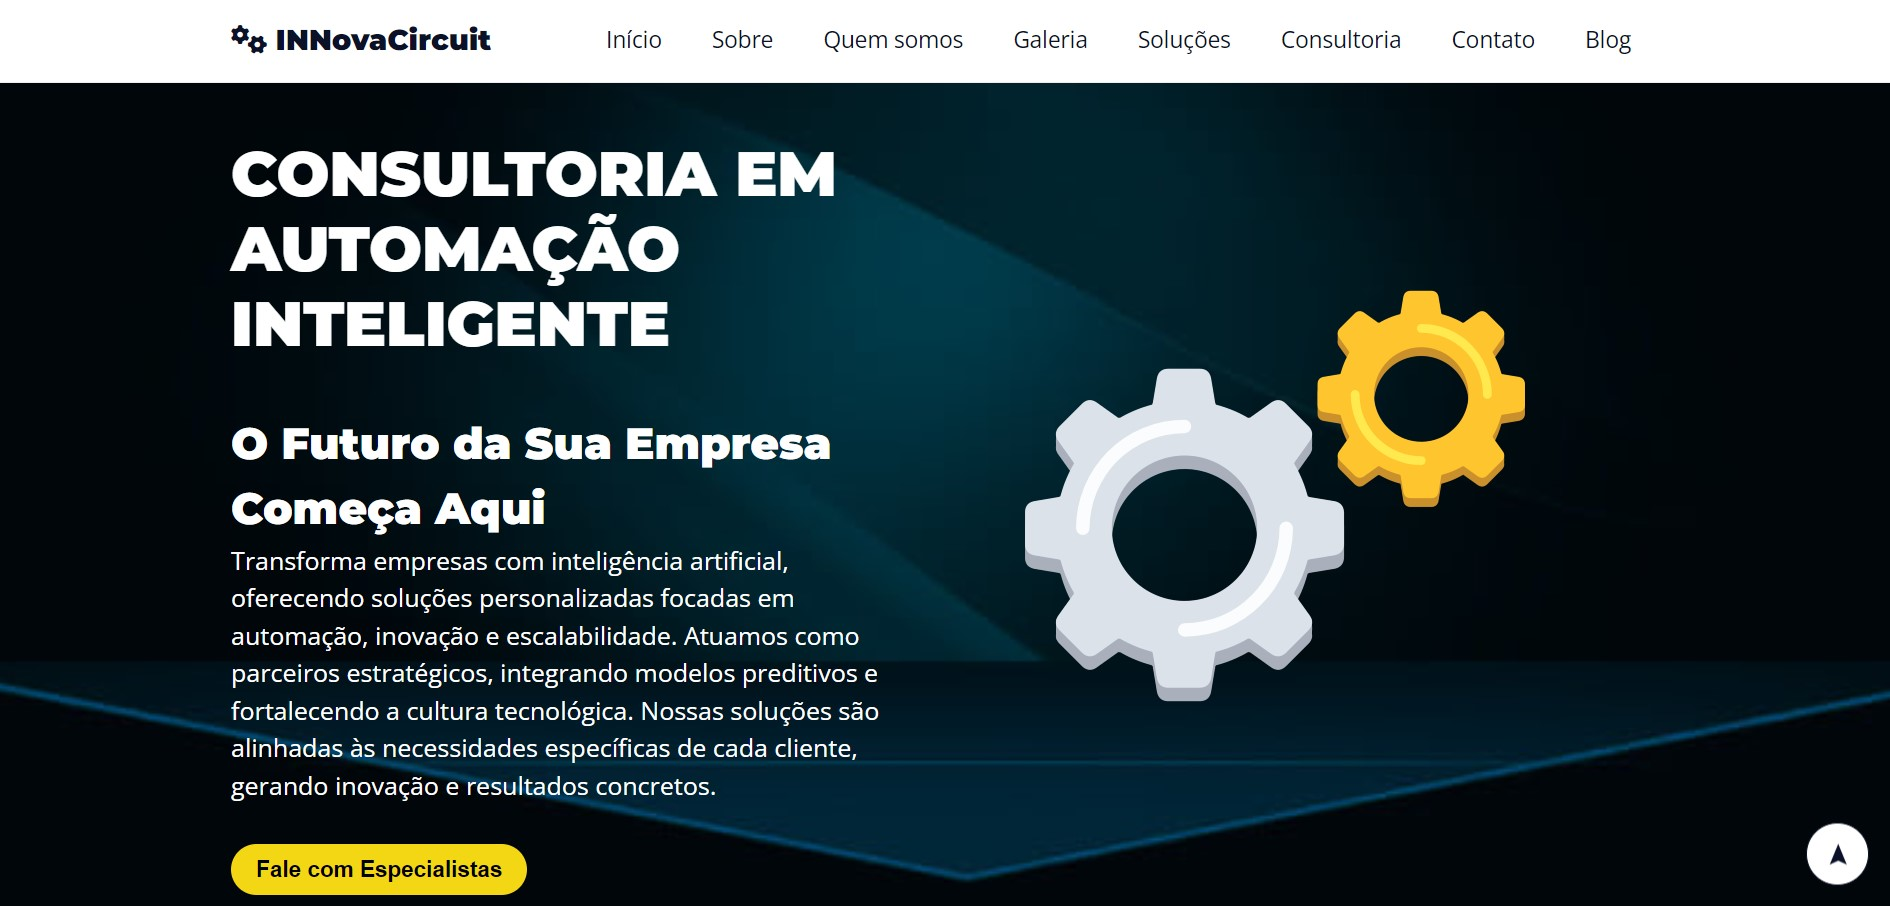
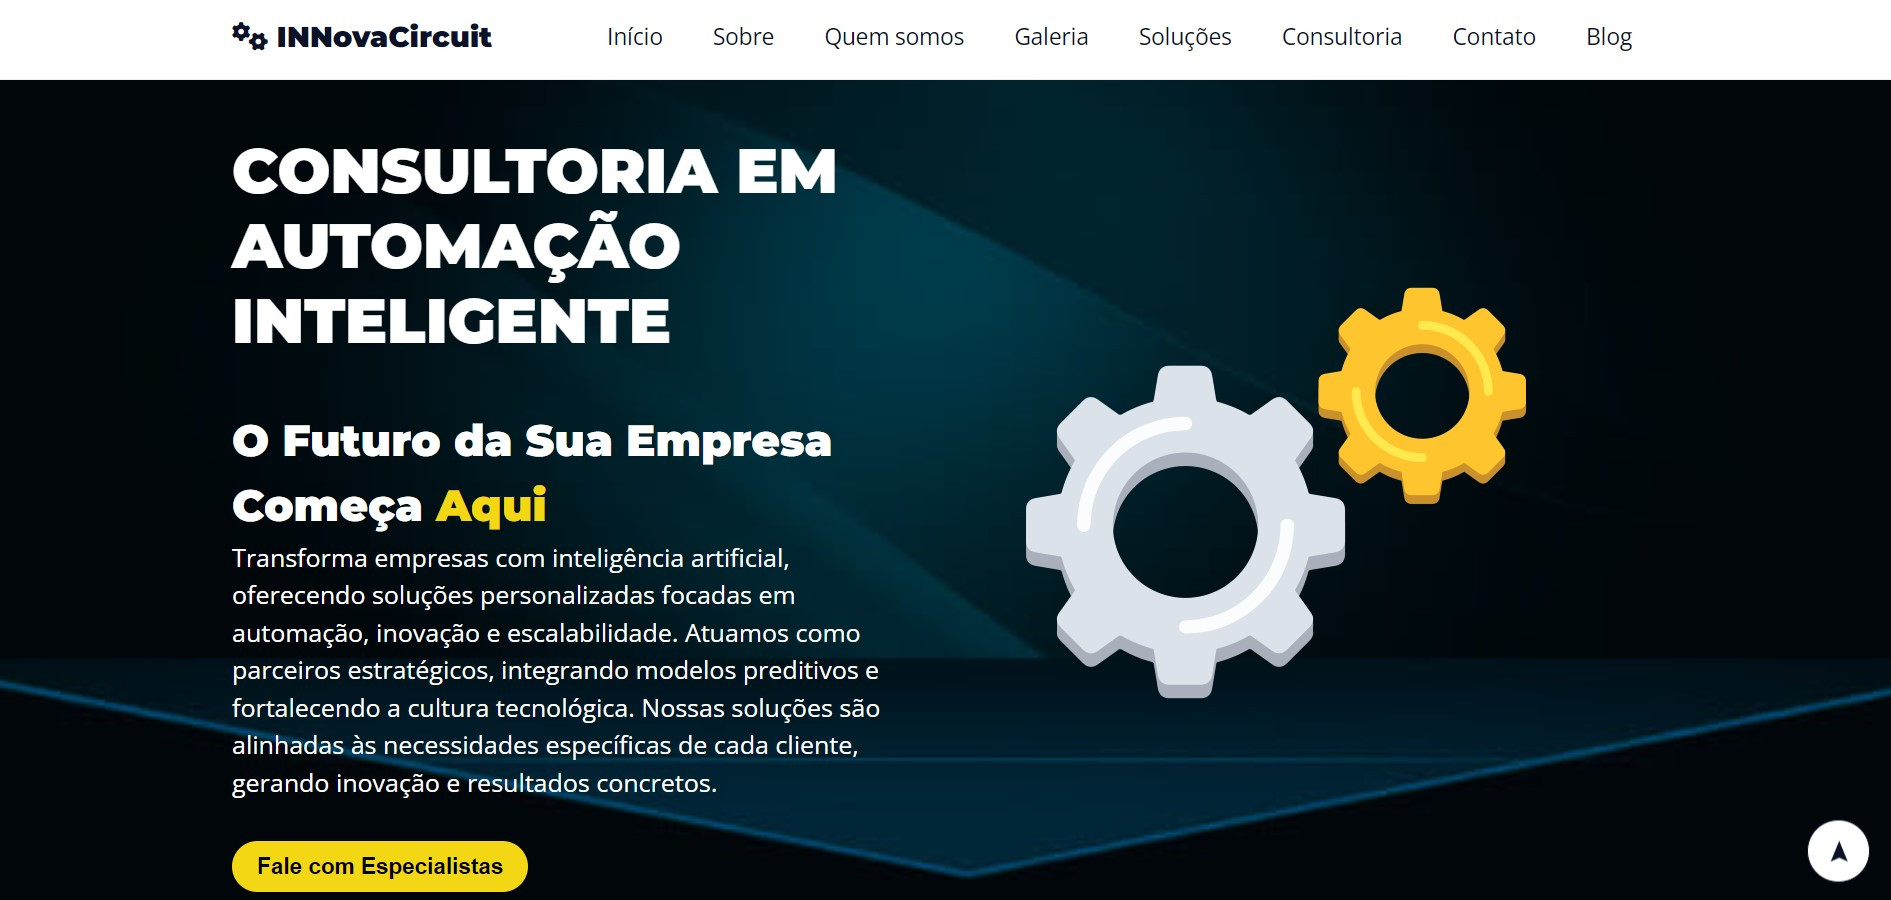
Alterações tela

diff --git a/landing_page/index.html b/landing_page/index.html
@@ -45,7 +45,7 @@
     <div class="main-content intro-content">
       <div class="intro-text-content">
         <h2>Consultoria em Automação Inteligente</h2>
-        <h6>O Futuro da Sua Empresa Começa Aqui</h6>
+        <h6>O Futuro da Sua Empresa Começa <strong style="color: #F3D614;">Aqui</strong></h6>
         <p>Transforma empresas com inteligência artificial, oferecendo
           soluções personalizadas focadas em automação, inovação e
           escalabilidade. Atuamos como parceiros estratégicos, 
